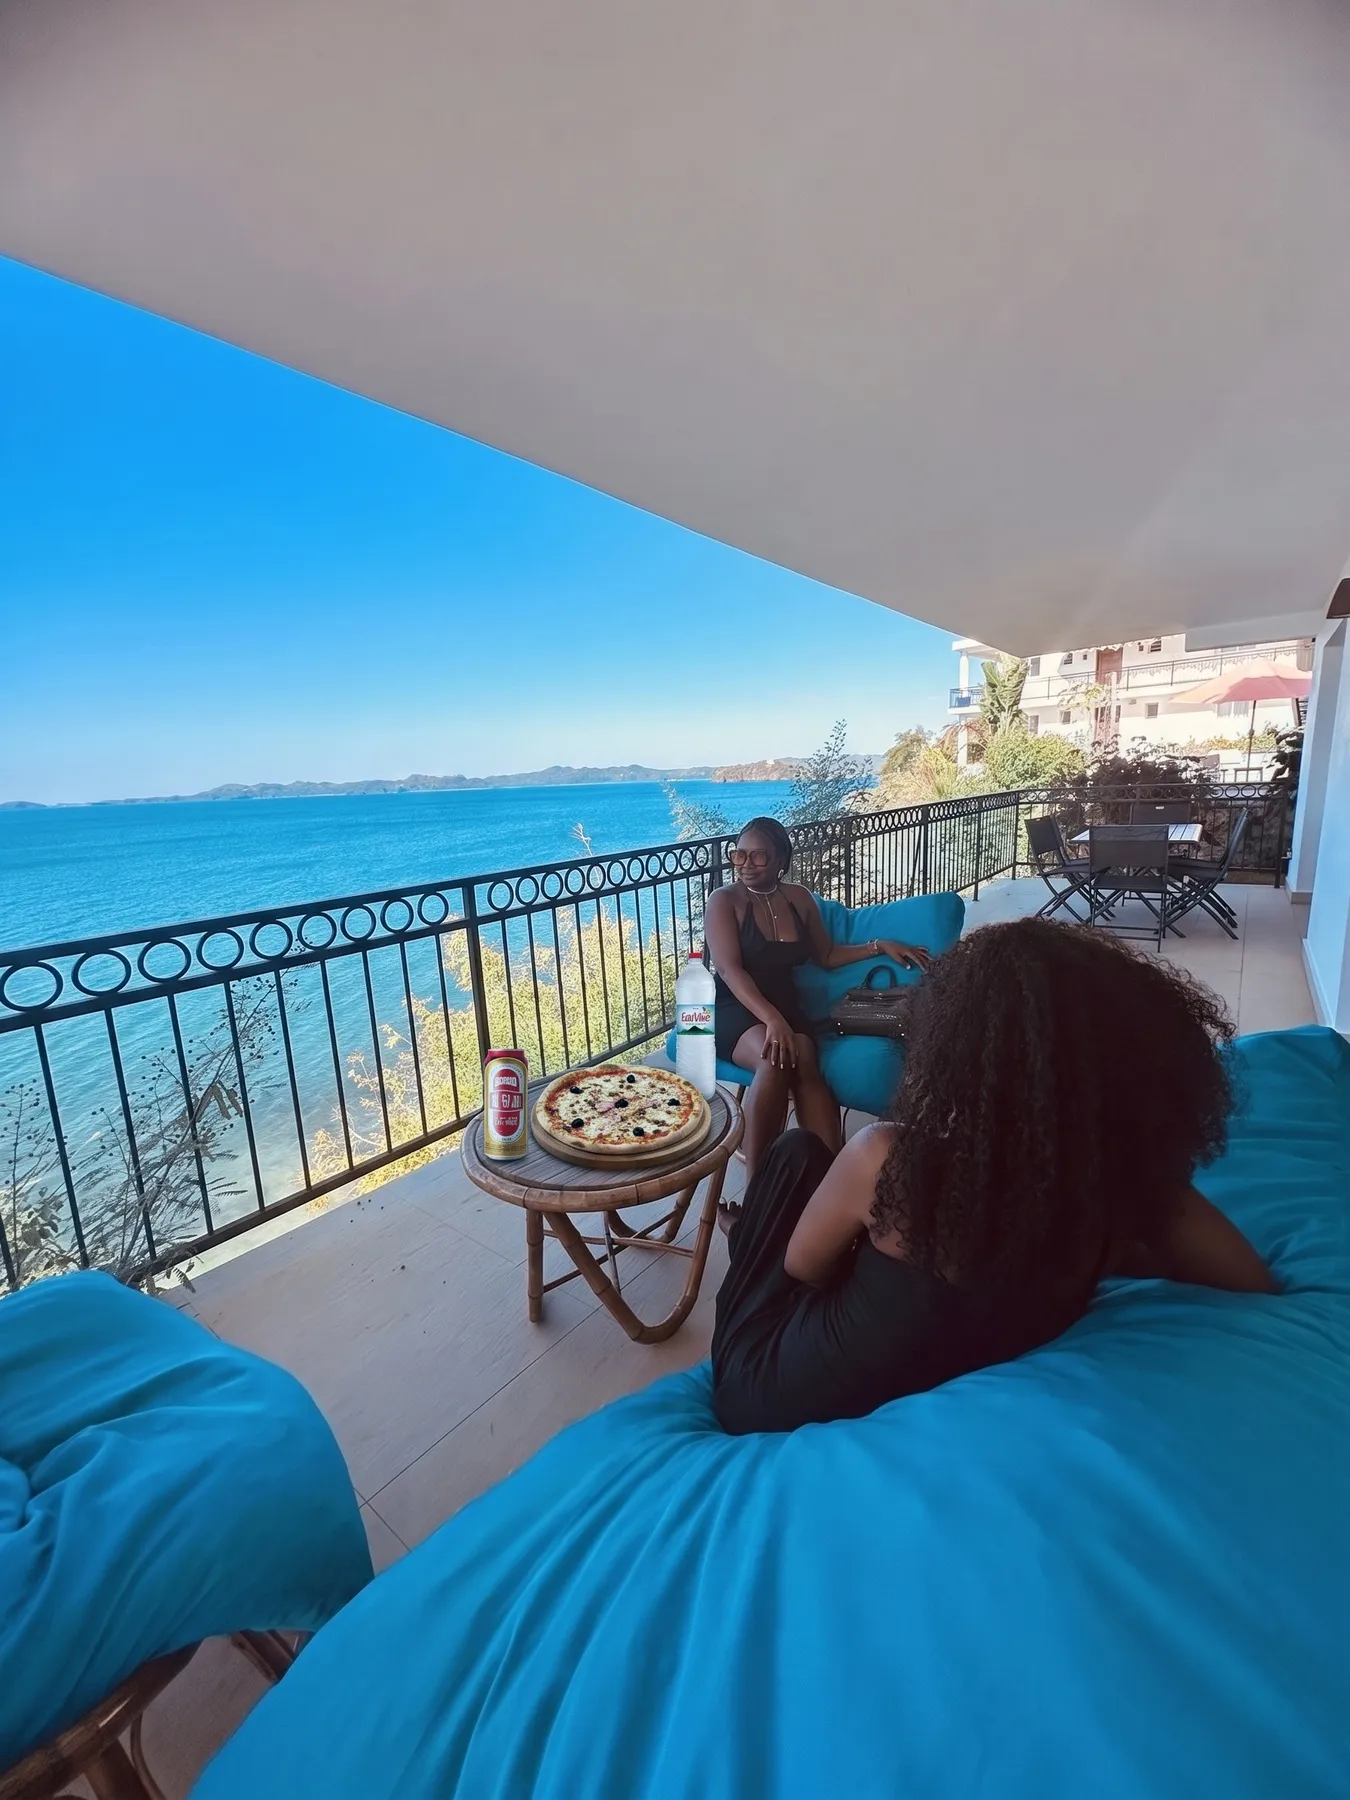
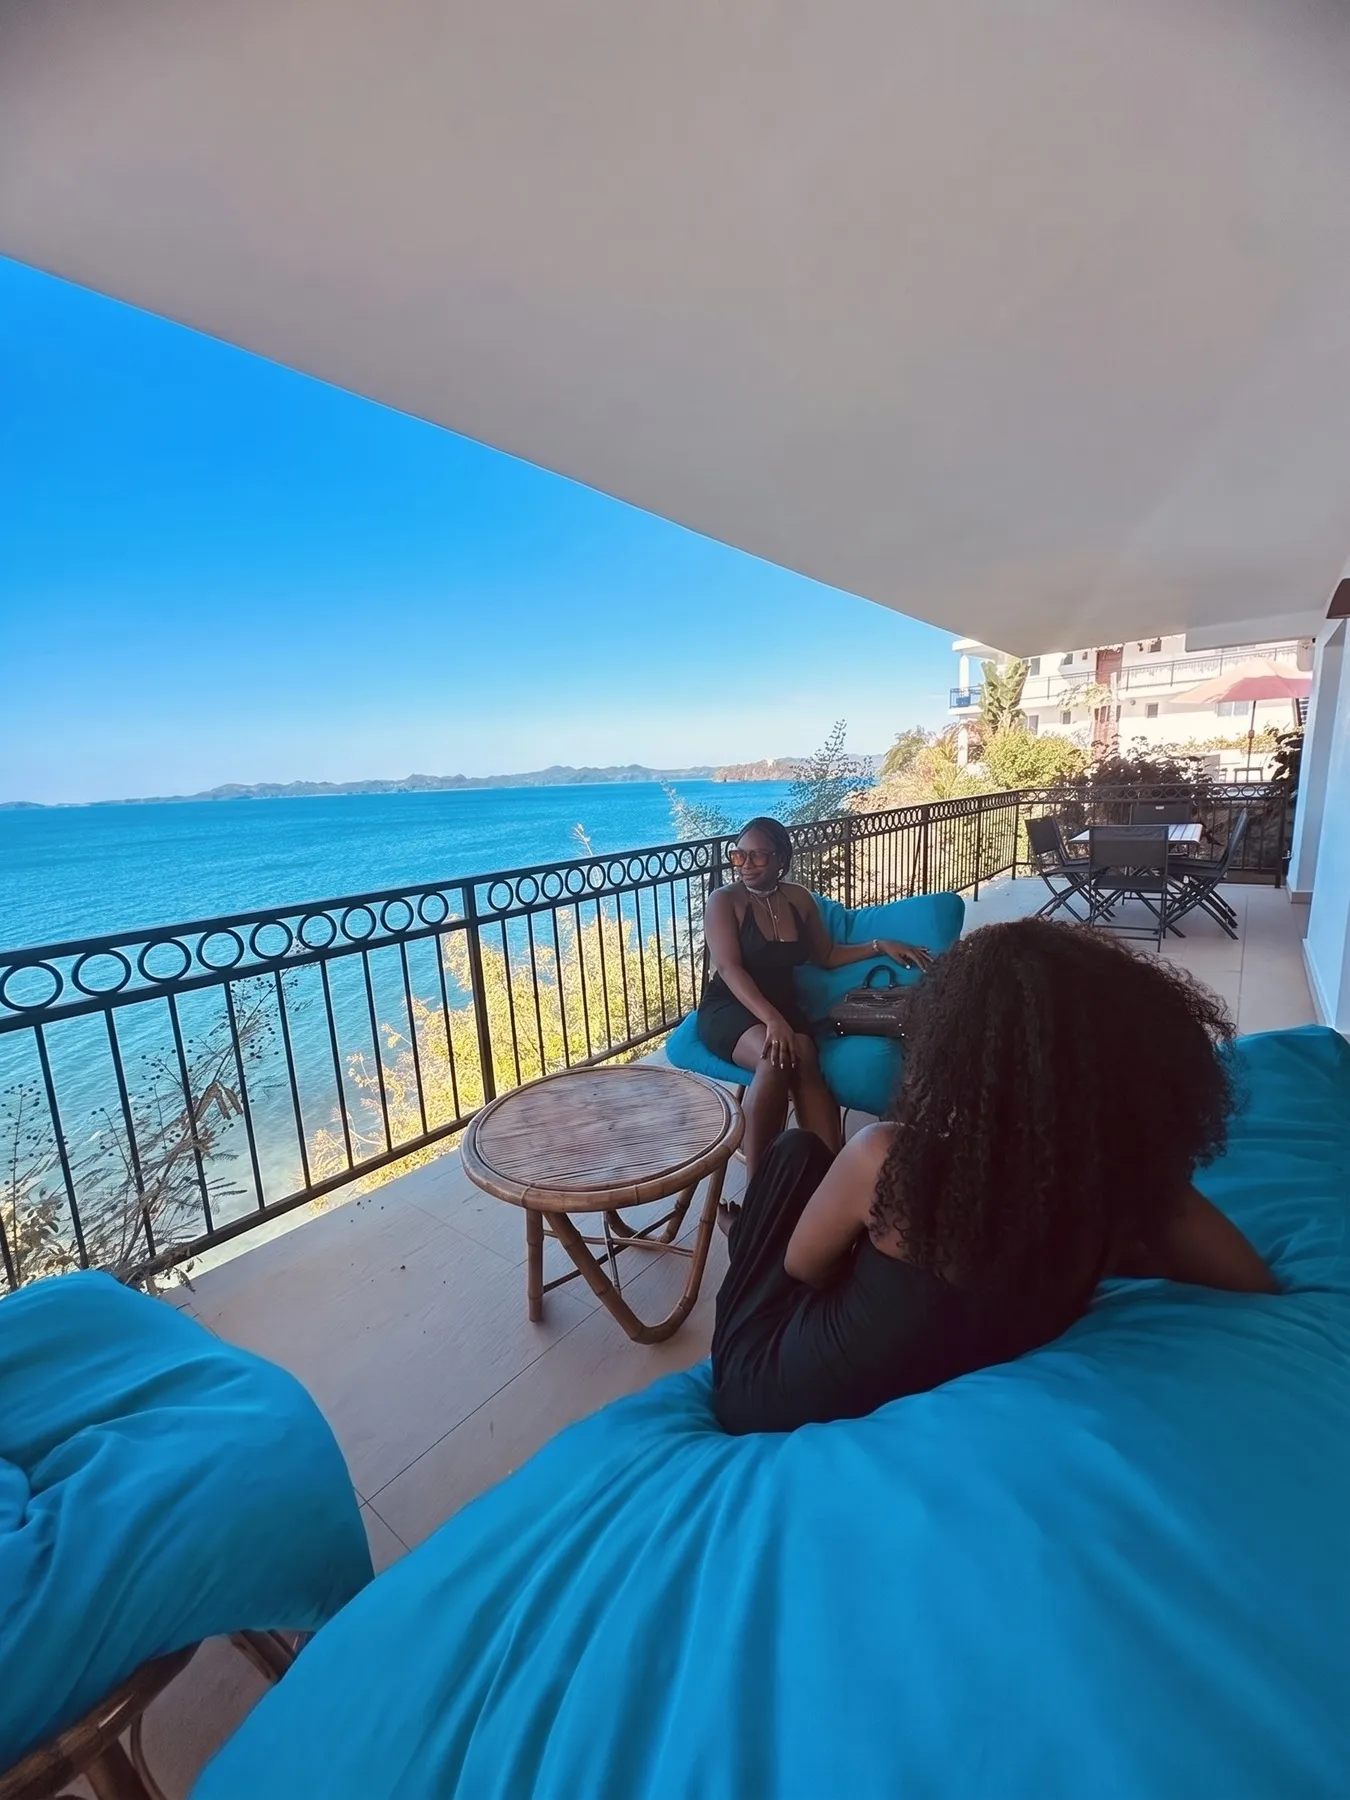
Terrasse Clair de Lune : tri des photos, 0513 table propre, couverture 0516
- Retire 13 photos (fauteuil baie, grande table, table pierre, barbecue, 0510, coeurs 0700/0704-0707)
- 0516 remplace 0510 en couverture
- 0513 : retouche IA table vide et propre
- Retire l'étiquette Barbecue de la section
- Exclut CLAUDE.md du dépôt public

Changed region(s): [[0.0, 0.3733, 0.9644, 0.7156], [0.8711, 0.5289, 0.9333, 0.5911]]

diff --git a/index.html b/index.html
@@ -757,17 +757,17 @@
       <h2 style="font-family:'Fraunces',serif;font-weight:300;font-size:clamp(30px,4.2vw,58px);line-height:1.03;letter-spacing:-.01em;margin:0">Le grand balcon <span style="font-style:italic;font-weight:400">sur la mer</span>.</h2>
       <p style="font-size:16.5px;line-height:1.62;color:rgba(22,33,31,.72);margin:18px 0 0;max-width:46ch">Le point fort de la résidence : une immense terrasse couverte qui court le long du logement, avec une vue mer panoramique. Un coin salon aux fauteuils bleus, une grande table pour les repas et l'apéro, et chaque soir, le coucher de soleil sur la baie.</p>
       <div style="display:flex;flex-wrap:wrap;gap:10px 12px;margin:clamp(22px,3vw,30px) 0 clamp(24px,3.4vw,34px)">
-        <span class="lm-spec">Terrasse couverte</span><span class="lm-spec">Vue mer panoramique</span><span class="lm-spec">Coin salon</span><span class="lm-spec">Grande table</span><span class="lm-spec">Barbecue</span><span class="lm-spec">Coucher de soleil</span>
+        <span class="lm-spec">Terrasse couverte</span><span class="lm-spec">Vue mer panoramique</span><span class="lm-spec">Coin salon</span><span class="lm-spec">Grande table</span><span class="lm-spec">Coucher de soleil</span>
       </div>
       <a href="#reservation" class="h-book" data-book="Clair de Lune" style="display:inline-flex;align-items:center;gap:11px;padding:15px 26px;border-radius:999px;background:#1785C0;color:#fff;font-weight:600;font-size:16px;box-shadow:0 16px 38px -16px rgba(10,20,19,.45);transition:background .25s ease,transform .25s ease">Réserver Clair de Lune</a>
     </div>
     <div class="room-photos-wrap">
       <div class="room-photos">
-        <div data-reveal style="position:relative;border-radius:10px;overflow:hidden;aspect-ratio:3/4"><img class="slot" loading="lazy" decoding="async" src="images/clair-de-lune-terrasse-0510.webp" width="1350" height="1800" alt="Clair de Lune — la grande terrasse couverte et son coin salon face à la mer"></div>
+        <div data-reveal style="position:relative;border-radius:10px;overflow:hidden;aspect-ratio:3/4"><img class="slot" loading="lazy" decoding="async" src="images/clair-de-lune-terrasse-0516.webp" width="1350" height="1800" alt="Clair de Lune — discussion dans les fauteuils de la terrasse"></div>
         <div data-reveal style="position:relative;border-radius:10px;overflow:hidden;aspect-ratio:3/4;margin-top:clamp(28px,5vw,64px)"><img class="slot" loading="lazy" decoding="async" src="images/clair-de-lune-terrasse-0697.webp" width="1350" height="1800" alt="Clair de Lune — un cœur avec les mains au coucher de soleil"></div>
       </div>
-      <button type="button" class="room-more"><span>Voir plus de photos</span> <span class="n">+20</span></button>
-      <div class="gallery-extra" hidden><img loading="lazy" decoding="async" src="images/clair-de-lune-terrasse-0516.webp" alt="Clair de Lune — discussion dans les fauteuils de la terrasse"><img loading="lazy" decoding="async" src="images/clair-de-lune-terrasse-0513.webp" alt="Clair de Lune — pizza et boissons fraîches sur la terrasse face à la mer"><img loading="lazy" decoding="async" src="images/clair-de-lune-terrasse-9255.webp" alt="Clair de Lune — le fauteuil en rotin devant la baie vitrée"><img loading="lazy" decoding="async" src="images/clair-de-lune-terrasse-9256.webp" alt="Clair de Lune — le coin fauteuil, entre le salon et la terrasse"><img loading="lazy" decoding="async" src="images/clair-de-lune-terrasse-0574.webp" alt="Clair de Lune — l'apéro autour de la grande table"><img loading="lazy" decoding="async" src="images/clair-de-lune-terrasse-0576.webp" alt="Clair de Lune — un verre à table face à la mer"><img loading="lazy" decoding="async" src="images/clair-de-lune-terrasse-0577.webp" alt="Clair de Lune — la grande table et la vue panoramique"><img loading="lazy" decoding="async" src="images/clair-de-lune-terrasse-0578.webp" alt="Clair de Lune — à table sur la terrasse"><img loading="lazy" decoding="async" src="images/clair-de-lune-terrasse-0575.webp" alt="Clair de Lune — trinquer face à l'océan"><img loading="lazy" decoding="async" src="images/clair-de-lune-terrasse-9167.webp" alt="Clair de Lune — la table extérieure face à la mer"><img loading="lazy" decoding="async" src="images/clair-de-lune-terrasse-9237.webp" alt="Clair de Lune — le barbecue de la terrasse"><img loading="lazy" decoding="async" src="images/clair-de-lune-terrasse-0506.webp" alt="Clair de Lune — la vue sur la mer depuis la terrasse"><img loading="lazy" decoding="async" src="images/clair-de-lune-terrasse-9257.webp" alt="Clair de Lune — le soleil sur la baie depuis la terrasse"><img loading="lazy" decoding="async" src="images/clair-de-lune-terrasse-0699.webp" alt="Clair de Lune — un cœur avec les mains face à la mer"><img loading="lazy" decoding="async" src="images/clair-de-lune-terrasse-0700.webp" alt="Clair de Lune — le coucher de soleil depuis la rambarde"><img loading="lazy" decoding="async" src="images/clair-de-lune-terrasse-0701.webp" alt="Clair de Lune — le soleil descend sur la baie"><img loading="lazy" decoding="async" src="images/clair-de-lune-terrasse-0704.webp" alt="Clair de Lune — instant complice au crépuscule"><img loading="lazy" decoding="async" src="images/clair-de-lune-terrasse-0705.webp" alt="Clair de Lune — le cœur au coucher de soleil"><img loading="lazy" decoding="async" src="images/clair-de-lune-terrasse-0706.webp" alt="Clair de Lune — la baie au crépuscule"><img loading="lazy" decoding="async" src="images/clair-de-lune-terrasse-0707.webp" alt="Clair de Lune — les dernières lueurs sur la mer"></div>
+      <button type="button" class="room-more"><span>Voir plus de photos</span> <span class="n">+7</span></button>
+      <div class="gallery-extra" hidden><img loading="lazy" decoding="async" src="images/clair-de-lune-terrasse-0513.webp" alt="Clair de Lune — moment de détente sur la terrasse face à la mer"><img loading="lazy" decoding="async" src="images/clair-de-lune-terrasse-0576.webp" alt="Clair de Lune — un verre à table face à la mer"><img loading="lazy" decoding="async" src="images/clair-de-lune-terrasse-0575.webp" alt="Clair de Lune — trinquer face à l'océan"><img loading="lazy" decoding="async" src="images/clair-de-lune-terrasse-0506.webp" alt="Clair de Lune — la vue sur la mer depuis la terrasse"><img loading="lazy" decoding="async" src="images/clair-de-lune-terrasse-9257.webp" alt="Clair de Lune — le soleil sur la baie depuis la terrasse"><img loading="lazy" decoding="async" src="images/clair-de-lune-terrasse-0699.webp" alt="Clair de Lune — un cœur avec les mains face à la mer"><img loading="lazy" decoding="async" src="images/clair-de-lune-terrasse-0701.webp" alt="Clair de Lune — le soleil descend sur la baie"></div>
     </div>
   </div>
 </section>
